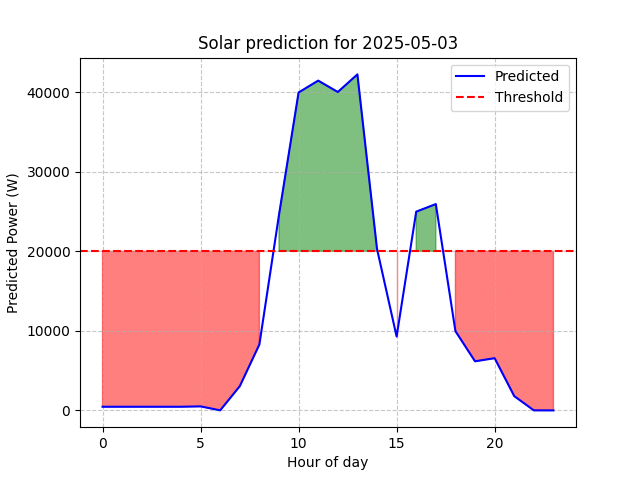
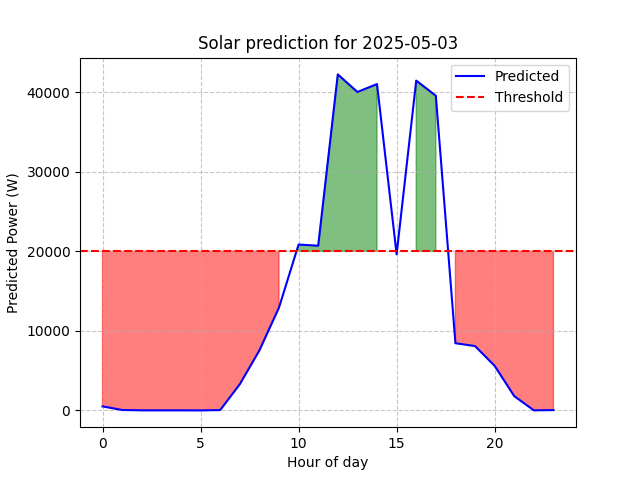
Refactor main function to use asynchronous power prediction and update notification logic

diff --git a/train_ml_regression_model.py b/train_ml_regression_model.py
@@ -1,5 +1,6 @@
 import pandas as pd
 import numpy as np
+import asyncio
 from dotenv import load_dotenv
 import http.client
 import urllib.parse
@@ -241,53 +242,61 @@ def compute_enegery_overproduction(df, threshold=20000):
     plt.savefig("data/prediction_overproduction.png")
     return overproduction_df[["overproduction_time", "overproduction"]].reset_index(drop=True)
 
+
+async def get_predicted_power(merged_data_file_path, update_data=True, get_power_from_db=False, get_weather_data_from_api=True, update_model=True):
+    while True:
+        if update_data:
+            # Get the merged data for training
+            merged_data = get_merged_data_for_training(get_power_from_db=get_power_from_db, get_weather_data_from_api=get_weather_data_from_api)
+            # export the data to parquet
+            export_to_parquet(merged_data, path)
+        else:
+            merged_data = read_data(merged_data_file_path)
+        # Features
+        features = ['radiation_global', 'radiation_sky_short_wave_diffuse', 
+                    'sunshine_duration', 'temperature_air_mean_2m', 
+                    'cloud_cover_total', 'humidity']
+        # # Test the models
+        # test_models(data, features)
+        if update_model:
+            # Train the model
+            model = train_model(merged_data, features)
+            # Save the model
+            joblib.dump(model, "data/model_weather_solar_power.pkl")
+        else:
+            # Load the model
+            model = joblib.load("data/model_weather_solar_power.pkl")
+        # # test prediction
+        # test_predict(model, data, features)
+        weather_forecast = get_forecast_data()
+        # predict tomorrow
+        forecast_data = predict_tomorrow(model, weather_forecast, features)
+        # The predicted column is the energy production in W for the next day per hour
+        # if predicted value is > 20000 W then we produce more than we consume
+        df_overproduction = compute_enegery_overproduction(forecast_data, threshold=20000)
+        output_string = f"Overproduction for tomorrow: {df_overproduction.to_string(index=False)}"
+        print(output_string)
+        # send pushover notification
+        pushover_user_group = os.getenv("PUSHOVER_USER_GROUP_WOERIS")
+        if (datetime.now().hour == 21) and (datetime.now().minute <= 10):
+            send_pushover_notification_img(pushover_user_group, output_string, "data/prediction_overproduction.png")
+        await asyncio.sleep(600)
     
     
-def main():
+async def main():
     # Read the data
     path = "data"
     merged_data_file = "merged_data_weather_power.parquet"
     merged_data_file_path = os.path.join(path, merged_data_file)
     
-    update_data = False
+    update_data = True
     get_power_from_db = False
     get_weather_data_from_api = True
     
     update_model = True
-    if update_data:
-        # Get the merged data for training
-        merged_data = get_merged_data_for_training(get_power_from_db=get_power_from_db, get_weather_data_from_api=get_weather_data_from_api)
-        # export the data to parquet
-        export_to_parquet(merged_data, path)
-    else:
-        merged_data = read_data(merged_data_file_path)
-    # Features
-    features = ['radiation_global', 'radiation_sky_short_wave_diffuse', 
-                'sunshine_duration', 'temperature_air_mean_2m', 
-                'cloud_cover_total', 'humidity']
-    # # Test the models
-    # test_models(data, features)
-    if update_model:
-        # Train the model
-        model = train_model(merged_data, features)
-        # Save the model
-        joblib.dump(model, "data/model_weather_solar_power.pkl")
-    else:
-        # Load the model
-        model = joblib.load("data/model_weather_solar_power.pkl")
-    # # test prediction
-    # test_predict(model, data, features)
-    weather_forecast = get_forecast_data()
-    # predict tomorrow
-    forecast_data = predict_tomorrow(model, weather_forecast, features)
-    # The predicted column is the energy production in W for the next day per hour
-    # if predicted value is > 20000 W then we produce more than we consume
-    df_overproduction = compute_enegery_overproduction(forecast_data, threshold=20000)
-    output_string = f"Overproduction for tomorrow: {df_overproduction.to_string(index=False)}"
-    print(output_string)
-    # send pushover notification
-    pushover_user_group = os.getenv("PUSHOVER_USER_GROUP_WOERIS")
-    send_pushover_notification_img(pushover_user_group, output_string, "data/prediction_overproduction.png")
+    await get_predicted_power(merged_data_file_path, update_data=update_data, get_power_from_db=get_power_from_db, get_weather_data_from_api=get_weather_data_from_api, update_model=update_model)
+        
     
 if __name__ == "__main__":
-    main()
+    asyncio.run(main())
+    
